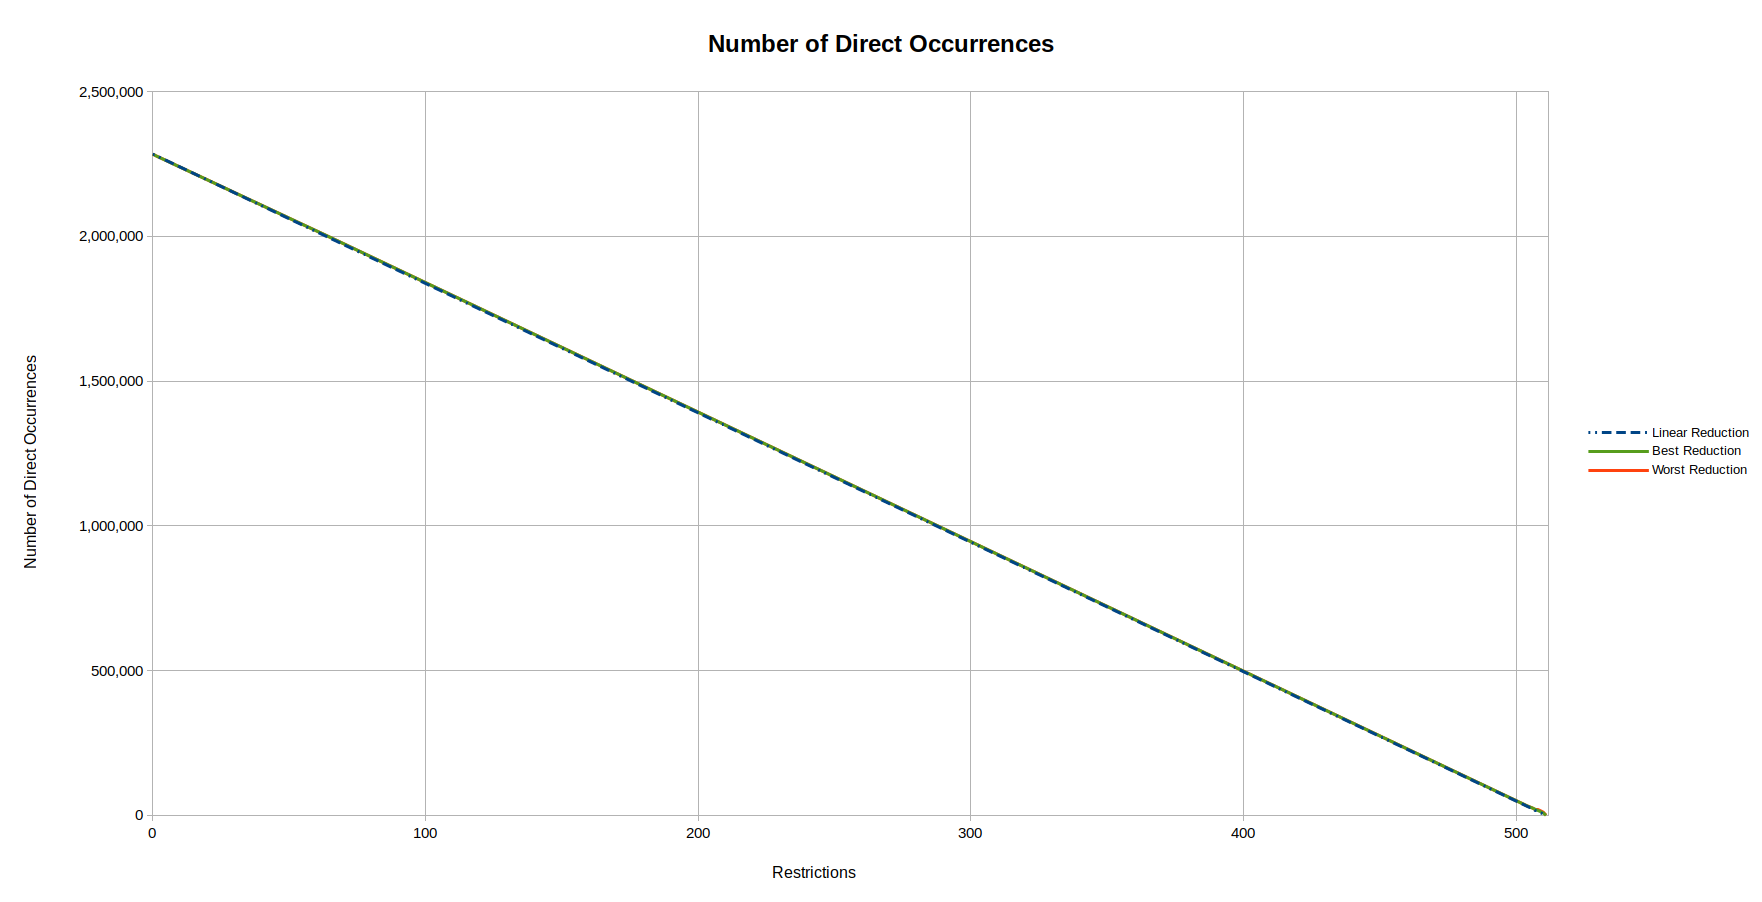
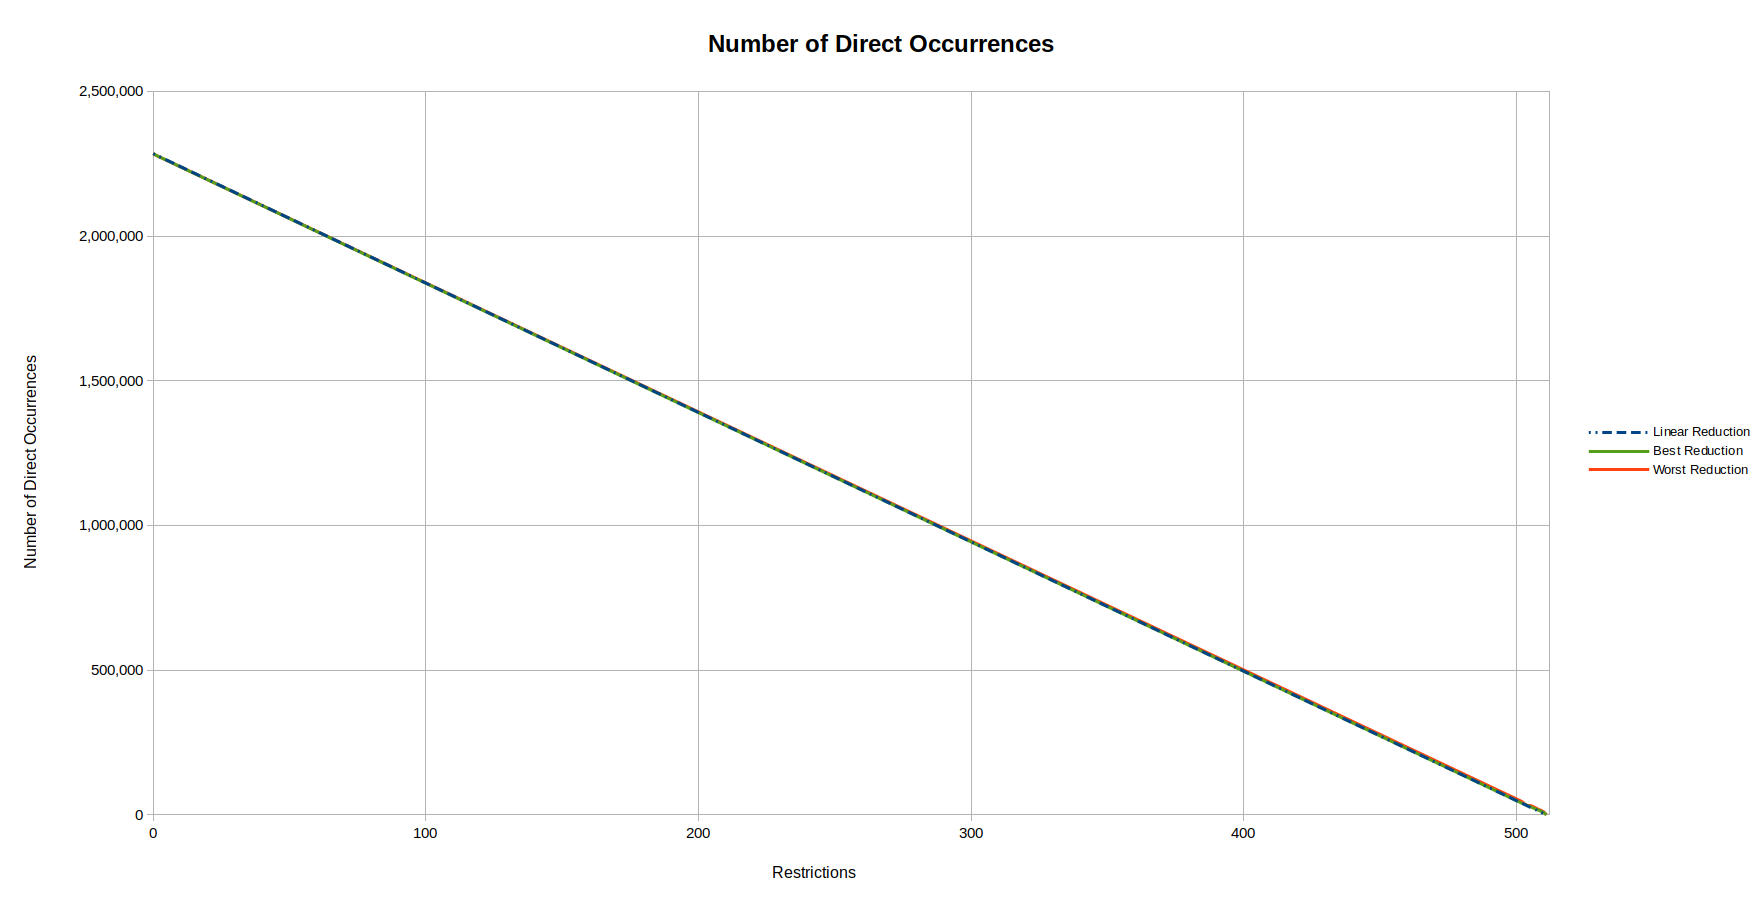
Updated the results page

diff --git a/results/Overview.md b/results/Overview.md
@@ -28,7 +28,7 @@ Results better than the linear reduction are marked in bold.
 | 503 | 1 | 66 | 74 |
 | 504 | 1 | 64 | 76 |
 | 505 | 1 | 64 | 74 |
-| 506 | 1 | 64 | 77 |
+| 506 | 1 | 60 | 77 |
 | 507 | 0 | 64 | 79 |
 | 508 | 0 | 66 | 78 |
 | 509 | 0 | 66 | 81 |
@@ -62,14 +62,14 @@ Results better than the linear reduction are marked in bold.
 | 501 | 79 | 3,899 | 4,322 |
 | 502 | 72 | 3,882 | 4,203 |
 | 503 | 64 | 3,914 | 3,979 |
-| 504 | 56 | 3,919 | 4,012 |
-| 505 | 48 | 3,920 | 4,550 |
-| 506 | 40 | 3,960 | 4,614 |
-| 507 | 32 | 3,956 | 4,636 |
+| 504 | 56 | 3,890 | 4,012 |
+| 505 | 48 | 3,885 | 4,550 |
+| 506 | 40 | 3,880 | 4,614 |
+| 507 | 32 | 3,879 | 4,636 |
 | 508 | 24 | 4,032 | 4,632 |
 | 509 | 16 | 4,018 | 5,046 |
 | 510 | 8 | 3,892 | 5,189 |
-| 511 | 0 | 63 | 95 |
+| 511 | 0 | 0 | 0 |
 
 ![Lowest Number of Direct Occurrences](Lowest_Number_of_Direct_Occurrences.png "Lowest Number of Direct Occurrences")
 
@@ -101,14 +101,16 @@ Results better than the linear reduction are marked in bold.
 | Restrictions | Linear Reduction | Best Reduction | Worst Reduction |
 |:------------:|:----------------:|:--------------:|:---------------:|
 | 0 | 2,284,331 | 2,284,331 | 2,284,331 |
-| 1 | 2,279,861 | 2,278,927 | 2,278,927 |
-| 65 | 1,993,761 | 1,996,797 | 1,996,797 |
-| 504 | 31,292 | 32,682 | 32,682 |
-| 505 | 26,822 | 28,763 | 28,920 |
-| 506 | 22,352 | 25,049 | 25,324 |
-| 507 | 17,881 | 20,642 | 21,293 |
-| 508 | 13,411 | 16,624 | 19,392 |
-| 509 | 8,941 | 12,517 | 15,520 |
+| 1 | 2,279,861 | **2,278,927** | 2,278,927 |
+| 501 | 44,703 | **44,575** | 50,610 |
+| 502 | 40,233 | 40,493 | 46,201 |
+| 503 | 35,763 | 36,771 | 37,872 |
+| 504 | 31,292 | 32,682 | 33,861 |
+| 505 | 26,822 | 28,444 | 33,073 |
+| 506 | 22,352 | 24,454 | 29,071 |
+| 507 | 17,881 | 20,407 | 24,180 |
+| 508 | 13,411 | 16,523 | 19,530 |
+| 509 | 8,941 | 12,523 | 15,520 |
 | 510 | 4,470 | 7,978 | 10,583 |
 | 511 | 0 | 0 | 0 |
 
